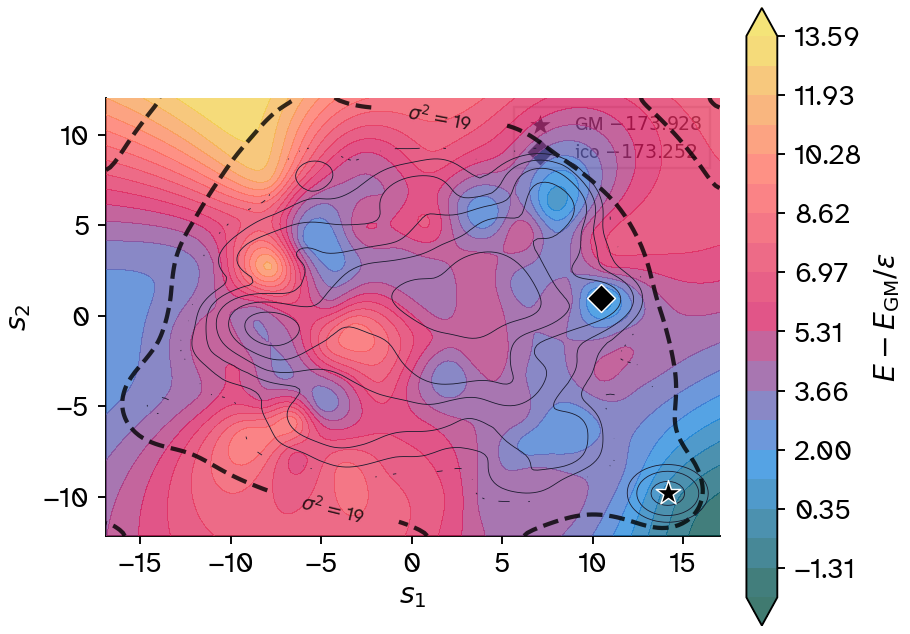
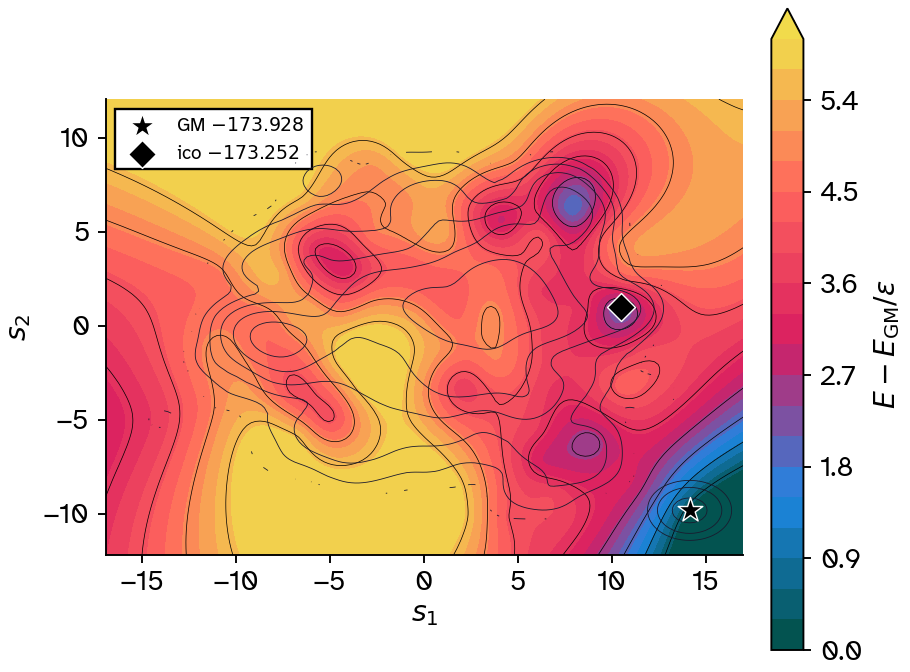
docs: clip the asinh-chi energy GP to the GM well
RBF/TPS on 80 inducing sites of E-E_GM, painted on [0, 6], so the
Wales GM sits in the dark well. Occupancy KDE stays the left panel
and the contour overlay; leftover-well invert is not the energy field.

diff --git a/scripts/occ_book_chemgp.py b/scripts/occ_book_chemgp.py
@@ -3,7 +3,7 @@
 
 Occupancy invert of leftover wells is the wrong energy field. The GP
 fits z = E - E_GM of the quenched minima on asinh n4..n13 chi. The
-occupancy KDE is a separate panel (and contour overlay).
+occupancy KDE is a separate panel and a contour overlay.
 """
 
 from __future__ import annotations
@@ -33,6 +33,7 @@ GM_E = -173.928427
 ICO_E = -173.252378
 KT = 0.168
 N_INDUCING = 80
+EMAX = 6.0
 GM_IDX = 0
 ICO_IDX = 40
 
@@ -98,7 +99,16 @@ def mark(ax, gm, ico):
         zorder=50,
         label=rf"ico ${ICO_E:.3f}$",
     )
-    ax.legend(handles=[h1, h2], loc="best", fontsize=8, frameon=True, fancybox=False)
+    ax.legend(
+        handles=[h1, h2],
+        loc="upper left",
+        fontsize=8,
+        frameon=True,
+        fancybox=False,
+        framealpha=1.0,
+        facecolor="white",
+        edgecolor="k",
+    )
 
 
 def paint_occ(ax, gx, gy, fes):
@@ -138,129 +148,110 @@ def inducing_indices(xy: np.ndarray, k: int, must) -> np.ndarray:
     return np.unique(np.concatenate([idx, extra]))
 
 
-def energy_cloud(xy: np.ndarray, energy: np.ndarray):
-    z = energy - float(energy.min())
+def energy_grid(xy: np.ndarray, energy: np.ndarray):
+    """RBF (TPS) GP of E - E_GM on n_inducing sites. Clip display to [0, EMAX]."""
+    from rgpycrumbs.surfaces import get_surface_model
+
+    z = np.clip(energy - float(energy.min()), 0.0, None)
     idx = inducing_indices(xy, N_INDUCING, (GM_IDX, ICO_IDX))
-    return xy[idx, 0], xy[idx, 1], z[idx], z
-
-
-def rbf_smooth_of(s1, s2) -> float:
+    s1, s2 = xy[idx, 0], xy[idx, 1]
+    z_obs = np.clip(z[idx], 0.0, EMAX)
     span = float(max(np.ptp(s1), np.ptp(s2)))
-    return max(0.1 * span, 1e-3)
+    smooth = max(0.1 * span, 1e-3)
+    xmin, xmax = float(xy[:, 0].min()), float(xy[:, 0].max())
+    ymin, ymax = float(xy[:, 1].min()), float(xy[:, 1].max())
+    dx, dy = max(xmax - xmin, 1e-6), max(ymax - ymin, 1e-6)
+    gx = np.linspace(xmin - 0.10 * dx, xmax + 0.10 * dx, 150)
+    gy = np.linspace(ymin - 0.10 * dy, ymax + 0.10 * dy, 150)
+    xx, yy = np.meshgrid(gx, gy)
+    grid = np.column_stack([xx.ravel(), yy.ravel()])
+    model_cls = get_surface_model("rbf")
+    model = model_cls(
+        x_obs=np.column_stack([s1, s2]),
+        y_obs=z_obs,
+        smoothing=smooth,
+        optimize=False,
+    )
+    pred = np.asarray(model(grid), dtype=float).reshape(xx.shape)
+    zg = np.clip(pred, 0.0, EMAX)
+    at_gm = float(np.asarray(model(xy[GM_IDX : GM_IDX + 1])).reshape(-1)[0])
+    at_ico = float(np.asarray(model(xy[ICO_IDX : ICO_IDX + 1])).reshape(-1)[0])
+    print(
+        "inducing",
+        len(idx),
+        "pred",
+        float(pred.min()),
+        float(pred.max()),
+        "GM",
+        at_gm,
+        "ico",
+        at_ico,
+        "smooth",
+        smooth,
+    )
+    return gx, gy, zg, xx, yy, s1, s2, z_obs
 
 
-def draw_energy_gp(ax, s1, s2, z) -> None:
-    from chemparseplot.plot.neb import SurfaceFitConfig, plot_landscape_surface
+def landscape_cmap():
     from chemparseplot.plot.theme import RUHI_THEME, get_theme, setup_publication_theme
 
     setup_publication_theme(get_theme("ruhi"))
-    plot_landscape_surface(
-        ax,
-        s1,
-        s2,
-        None,
-        None,
-        z,
-        method="rbf",
-        rbf_smooth=rbf_smooth_of(s1, s2),
-        project_path=False,
-        cmap=RUHI_THEME.cmap_landscape,
-        show_pts=False,
-        surface_fit=SurfaceFitConfig(auto_thin=False, max_surface_points=N_INDUCING + 2),
-        n_inducing=N_INDUCING,
-        variance_threshold=0.5,
+    return RUHI_THEME.cmap_landscape
+
+
+def paint_energy(ax, xx, yy, zg, cmap):
+    mesh = ax.contourf(
+        xx, yy, zg, levels=np.linspace(0, EMAX, 21), cmap=cmap, extend="max"
     )
+    ax.contour(
+        xx,
+        yy,
+        zg,
+        levels=np.linspace(0.4, EMAX - 0.4, 8),
+        colors="black",
+        linewidths=0.3,
+        zorder=15,
+    )
+    return mesh
 
 
-def energy_gp_figure(s1, s2, z, gx, gy, fes, gm, ico, dest: Path) -> None:
-    from chemparseplot.parse.types import EnergyRepresentation
-    from chemparseplot.plot.landfold import plot_fes
-    from chemparseplot.plot.representation import plot_energy
-
-    clabel = r"$E-E_{\mathrm{GM}}/\varepsilon$"
-    fig = None
-    err = None
-    try:
-        fig = plot_fes(
-            cloud=(s1, s2, z),
-            method="rbf",
-            n_inducing=N_INDUCING,
-            show_pts=False,
-            clabel=clabel,
-            xlabel=r"$s_1$",
-            ylabel=r"$s_2$",
-        )
-    except Exception as exc:
-        err = exc
-        try:
-            rep = EnergyRepresentation.from_mapping(
-                {
-                    "schema": "chemparseplot.energy.v1",
-                    "x": s1,
-                    "y": s2,
-                    "energy": z,
-                    "frame": "plane",
-                    "xlabel": r"$s_1$",
-                    "ylabel": r"$s_2$",
-                    "metadata": {"field": "quenched_energy"},
-                }
-            )
-            fig = plot_energy(
-                rep,
-                method="rbf",
-                n_inducing=N_INDUCING,
-                show_pts=False,
-                xlabel=r"$s_1$",
-                ylabel=r"$s_2$",
-                clabel=clabel,
-                figsize=(5.6, 4.8),
-                dpi=170,
-            )
-            err = None
-        except Exception as exc2:
-            err = exc2
-            fig, ax = plt.subplots(figsize=(5.6, 4.8), dpi=170, facecolor="white")
-            draw_energy_gp(ax, s1, s2, z)
-            filled = next(
-                (c for c in ax.collections if getattr(c, "filled", False)),
-                ax.collections[0] if ax.collections else None,
-            )
-            if filled is not None:
-                fig.colorbar(filled, ax=ax, fraction=0.046, pad=0.04).set_label(clabel)
-            ax.set_xlabel(r"$s_1$")
-            ax.set_ylabel(r"$s_2$")
-            ax.set_aspect("equal", adjustable="box")
-            fig.tight_layout()
-    ax = fig.axes[0]
-    occ_contours(ax, gx, gy, fes)
+def energy_gp_figure(xx, yy, zg, gx_occ, gy_occ, fes, gm, ico, dest: Path) -> None:
+    cmap = landscape_cmap()
+    fig, ax = plt.subplots(figsize=(5.6, 4.8), dpi=170, facecolor="white")
+    mesh = paint_energy(ax, xx, yy, zg, cmap)
+    occ_contours(ax, gx_occ, gy_occ, fes)
     mark(ax, gm, ico)
+    fig.colorbar(mesh, ax=ax, fraction=0.046, pad=0.04).set_label(
+        r"$E-E_{\mathrm{GM}}/\varepsilon$"
+    )
+    ax.set_xlabel(r"$s_1$")
+    ax.set_ylabel(r"$s_2$")
+    ax.set_aspect("equal", adjustable="box")
+    fig.tight_layout()
     dest.parent.mkdir(parents=True, exist_ok=True)
     fig.savefig(dest, dpi=170, facecolor="white")
     plt.close(fig)
     print("wrote", dest)
-    if err is not None:
-        print("plot_fes/plot_energy failed, used plot_landscape_surface:", type(err).__name__, err)
 
 
-def two_panel(xy, e, s1, s2, z, gx, gy, fes, gm, ico, dest: Path) -> None:
+def two_panel(gx, gy, fes, xx, yy, zg, gm, ico, dest: Path) -> None:
+    cmap = landscape_cmap()
     fig, axes = plt.subplots(1, 2, figsize=(10.8, 4.8), facecolor="white")
-    mesh = paint_occ(axes[0], gx, gy, fes)
+    mesh_occ = paint_occ(axes[0], gx, gy, fes)
     mark(axes[0], gm, ico)
     axes[0].set_title(r"occupancy of 4042 inherent structures")
-    fig.colorbar(mesh, ax=axes[0], fraction=0.046, pad=0.03).set_label(r"$F/\varepsilon$")
+    fig.colorbar(mesh_occ, ax=axes[0], fraction=0.046, pad=0.03).set_label(
+        r"$F/\varepsilon$"
+    )
 
-    draw_energy_gp(axes[1], s1, s2, z)
+    mesh_e = paint_energy(axes[1], xx, yy, zg, cmap)
     occ_contours(axes[1], gx, gy, fes)
     mark(axes[1], gm, ico)
     axes[1].set_title(r"$E-E_{\mathrm{GM}}$ RBF GP")
-    filled = next(
-        (c for c in axes[1].collections if getattr(c, "filled", False)),
-        axes[1].collections[0] if axes[1].collections else None,
+    axes[1].set_aspect("equal", adjustable="box")
+    fig.colorbar(mesh_e, ax=axes[1], fraction=0.046, pad=0.03).set_label(
+        r"$E-E_{\mathrm{GM}}/\varepsilon$"
     )
-    if filled is not None:
-        fig.colorbar(filled, ax=axes[1], fraction=0.046, pad=0.03).set_label(
-            r"$E-E_{\mathrm{GM}}/\varepsilon$"
-        )
     dest.parent.mkdir(parents=True, exist_ok=True)
     fig.tight_layout()
     fig.savefig(dest, dpi=170, facecolor="white")
@@ -277,43 +268,32 @@ def main() -> None:
     gm = xy[GM_IDX]
     ico = xy[ICO_IDX]
     if abs(float(e[GM_IDX]) - GM_E) > 1e-3 or abs(float(e[ICO_IDX]) - ICO_E) > 1e-3:
-        raise SystemExit(
-            f"index check failed E[0]={e[GM_IDX]} E[40]={e[ICO_IDX]}"
-        )
+        raise SystemExit(f"index check failed E[0]={e[GM_IDX]} E[40]={e[ICO_IDX]}")
     gx, gy, fes = kde_fes(xy, cf)
-    s1, s2, z, z_all = energy_cloud(xy, e)
+    _gx, _gy, zg, xx, yy, s1, s2, z_obs = energy_grid(xy, e)
     print(
         "n",
         len(e),
-        "inducing",
-        len(s1),
         "GM",
         gm,
-        float(z_all[GM_IDX]),
         "ico",
         ico,
-        float(z_all[ICO_IDX]),
         "F(GM)",
         cf.fes_at(gx, gy, fes, gm),
         "F(ico)",
         cf.fes_at(gx, gy, fes, ico),
+        "z_obs",
+        float(z_obs.min()),
+        float(z_obs.max()),
+        "n_obs",
+        len(s1),
     )
     OUT.mkdir(parents=True, exist_ok=True)
     energy_gp_figure(
-        s1, s2, z, gx, gy, fes, gm, ico, OUT / "elja_occ_lj38_asinh_chemgp.png"
+        xx, yy, zg, gx, gy, fes, gm, ico, OUT / "elja_occ_lj38_asinh_chemgp.png"
     )
     two_panel(
-        xy,
-        e,
-        s1,
-        s2,
-        z,
-        gx,
-        gy,
-        fes,
-        gm,
-        ico,
-        OUT / "elja_occ_lj38_asinh_occ_energy.png",
+        gx, gy, fes, xx, yy, zg, gm, ico, OUT / "elja_occ_lj38_asinh_occ_energy.png"
     )
 
 
